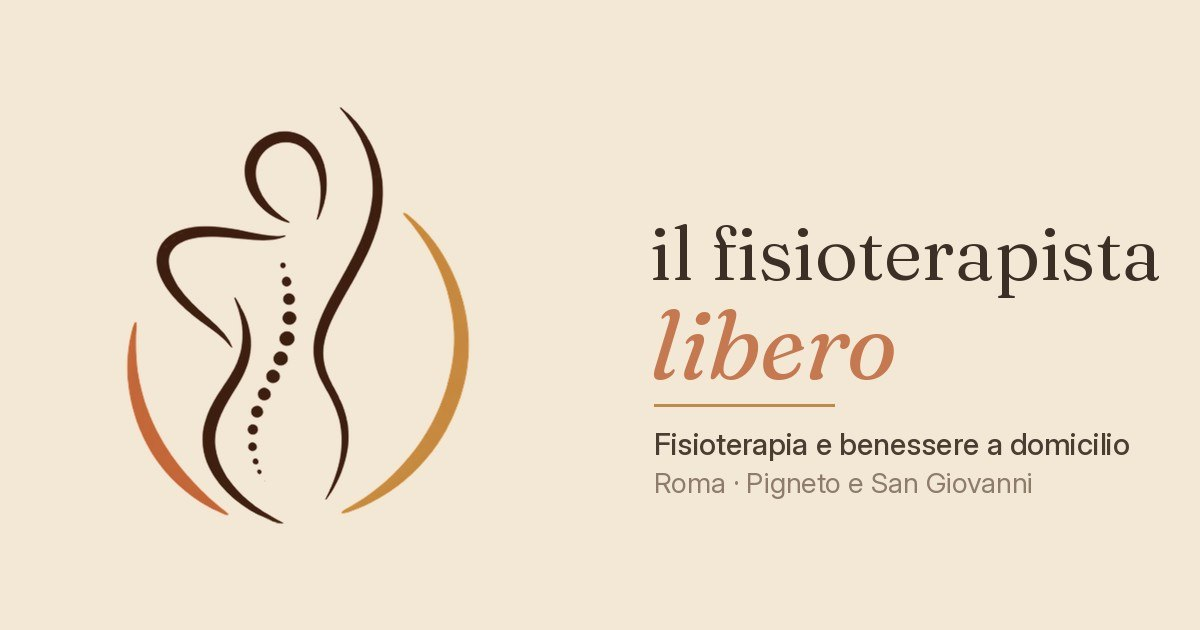
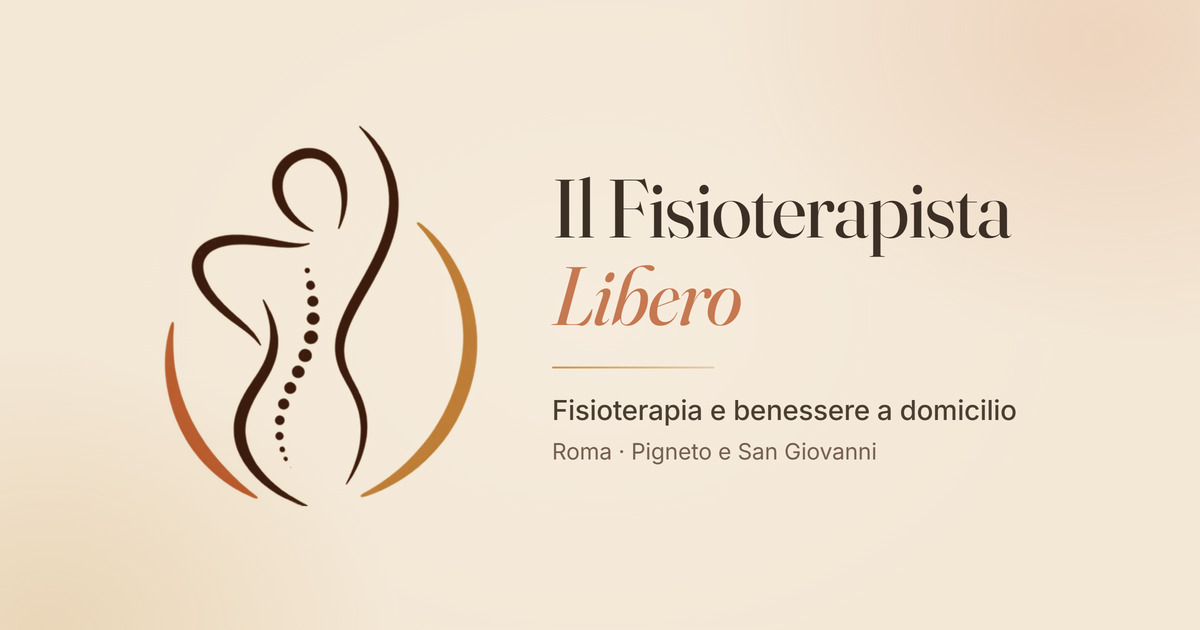
Immagine di anteprima con il nome in maiuscolo

diff --git a/index.html b/index.html
@@ -18,7 +18,7 @@
 <meta property="og:site_name" content="Il Fisioterapista Libero">
 <meta property="og:title" content="Il Fisioterapista Libero — Fisioterapia a domicilio a Roma">
 <meta property="og:description" content="Fisioterapia e benessere a domicilio a Roma (Pigneto, San Giovanni). Consulenza telefonica gratuita.">
-<meta property="og:image" content="https://ilfisioterapistalibero.pages.dev/assets/og-image.jpg">
+<meta property="og:image" content="https://ilfisioterapistalibero.pages.dev/assets/og-image.jpg?v=2">
 <meta property="og:url" content="https://ilfisioterapistalibero.pages.dev/">
 <meta property="og:locale" content="it_IT">
 
@@ -26,7 +26,7 @@
 <meta name="twitter:card" content="summary_large_image">
 <meta name="twitter:title" content="Il Fisioterapista Libero — Fisioterapia a domicilio a Roma">
 <meta name="twitter:description" content="Fisioterapia e benessere a domicilio a Roma (Pigneto, San Giovanni). Consulenza telefonica gratuita.">
-<meta name="twitter:image" content="https://ilfisioterapistalibero.pages.dev/assets/og-image.jpg">
+<meta name="twitter:image" content="https://ilfisioterapistalibero.pages.dev/assets/og-image.jpg?v=2">
 
 <link rel="preload" href="/assets/fonts/fraunces-normal-latin-39ce20.woff2" as="font" type="font/woff2" crossorigin>
 <link rel="preload" href="/assets/fonts/inter-normal-latin-567244.woff2" as="font" type="font/woff2" crossorigin>
@@ -56,7 +56,7 @@
       "url": "https://ilfisioterapistalibero.pages.dev/",
       "telephone": "+393284611118",
       "email": "Ilfisioterapistalibero@gmail.com",
-      "image": "https://ilfisioterapistalibero.pages.dev/assets/og-image.jpg",
+      "image": "https://ilfisioterapistalibero.pages.dev/assets/og-image.jpg?v=2",
       "logo": "https://ilfisioterapistalibero.pages.dev/assets/logo.jpg",
       "address": {
         "@type": "PostalAddress",

diff --git a/trattamenti.html b/trattamenti.html
@@ -14,7 +14,7 @@
 <meta property="og:title" content="Trattamenti — Il Fisioterapista Libero">
 <meta property="og:description" content="Linfodrenaggio manuale in gravidanza, massaggio decontratturante, trattamento antistress, digitopressione. 90 € a seduta a domicilio a Roma, fattura detraibile.">
 <meta property="og:url" content="https://ilfisioterapistalibero.pages.dev/trattamenti">
-<meta property="og:image" content="https://ilfisioterapistalibero.pages.dev/assets/og-image.jpg">
+<meta property="og:image" content="https://ilfisioterapistalibero.pages.dev/assets/og-image.jpg?v=2">
 <meta property="og:locale" content="it_IT">
 <link rel="preload" href="/assets/fonts/fraunces-normal-latin-39ce20.woff2" as="font" type="font/woff2" crossorigin>
 <link rel="preload" href="/assets/fonts/inter-normal-latin-567244.woff2" as="font" type="font/woff2" crossorigin>

diff --git a/chi-sono.html b/chi-sono.html
@@ -14,7 +14,7 @@
 <meta property="og:title" content="Chi sono — Il Fisioterapista Libero">
 <meta property="og:description" content="Alessandro Ottaviani, Dottore in Fisioterapia (110/110, Tor Vergata), 13 anni di esperienza clinica. Oggi fisioterapia a domicilio a Roma.">
 <meta property="og:url" content="https://ilfisioterapistalibero.pages.dev/chi-sono">
-<meta property="og:image" content="https://ilfisioterapistalibero.pages.dev/assets/og-image.jpg">
+<meta property="og:image" content="https://ilfisioterapistalibero.pages.dev/assets/og-image.jpg?v=2">
 <meta property="og:locale" content="it_IT">
 <link rel="preload" href="/assets/fonts/fraunces-normal-latin-39ce20.woff2" as="font" type="font/woff2" crossorigin>
 <link rel="preload" href="/assets/fonts/inter-normal-latin-567244.woff2" as="font" type="font/woff2" crossorigin>

diff --git a/domande-frequenti.html b/domande-frequenti.html
@@ -12,7 +12,7 @@
 <meta property="og:title" content="Domande frequenti — Il Fisioterapista Libero">
 <meta property="og:description" content="Prezzi, zone, orari e prenotazione: le risposte alle domande più frequenti sulla fisioterapia a domicilio a Roma (Pigneto, San Giovanni) con il Dott. Alessandro Ottaviani.">
 <meta property="og:url" content="https://ilfisioterapistalibero.pages.dev/domande-frequenti">
-<meta property="og:image" content="https://ilfisioterapistalibero.pages.dev/assets/og-image.jpg">
+<meta property="og:image" content="https://ilfisioterapistalibero.pages.dev/assets/og-image.jpg?v=2">
 <meta property="og:locale" content="it_IT">
 <link rel="icon" type="image/jpeg" href="assets/favicon.jpg">
 <link rel="preload" href="/assets/fonts/fraunces-normal-latin-39ce20.woff2" as="font" type="font/woff2" crossorigin>

diff --git a/contatti.html b/contatti.html
@@ -14,7 +14,7 @@
 <meta property="og:title" content="Contatti — Il Fisioterapista Libero">
 <meta property="og:description" content="Prenota una consulenza telefonica gratuita con il Dott. Alessandro Ottaviani, fisioterapista a domicilio a Roma. Tel. 328 461 1118.">
 <meta property="og:url" content="https://ilfisioterapistalibero.pages.dev/contatti">
-<meta property="og:image" content="https://ilfisioterapistalibero.pages.dev/assets/og-image.jpg">
+<meta property="og:image" content="https://ilfisioterapistalibero.pages.dev/assets/og-image.jpg?v=2">
 <meta property="og:locale" content="it_IT">
 <link rel="preload" href="/assets/fonts/fraunces-normal-latin-39ce20.woff2" as="font" type="font/woff2" crossorigin>
 <link rel="preload" href="/assets/fonts/inter-normal-latin-567244.woff2" as="font" type="font/woff2" crossorigin>
